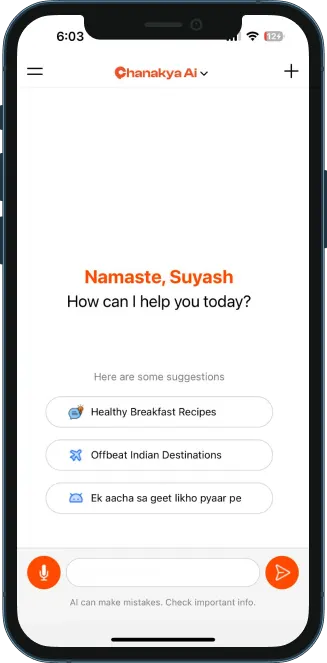
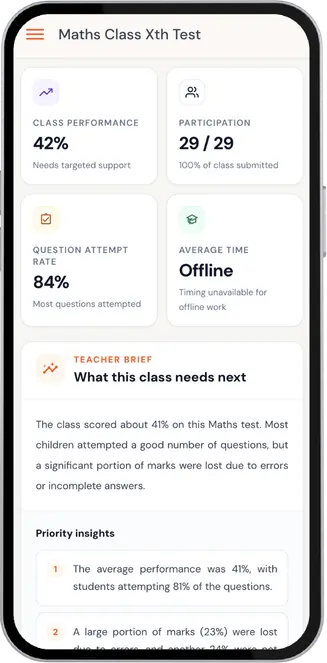
Correct Chanakya AI: it is an exam automation platform, not an AI assistant
The description was wrong. It had been carried over from the personal
portfolio's copy about a consumer AI assistant answering in nine Indian
languages, which is not what the product does.

Chanakya AI is an exam automation platform for schools and institutes:
teachers create papers, students write them by hand as they always have, and
AI reads and marks the scanned answer sheets.

Updated everywhere it was described:
  - index.html      work-row summary
  - js/data/work.js summary + detail
  - work/chanakya-ai/  meta description, og:description, JSON-LD "about",
                       lede, and the whole "The problem" section, which had
                       been built on the wrong premise

Also rewrote "Beyond the code": it justified the product consulting by saying
it told us "which languages to optimise the model routing for first", which
no longer means anything. It now points at exam-cycle buying patterns and a
teacher abandoning a slow tool on the one day it matters — which is the real
reason performance came before the feature list.

Includes the exam-platform screenshot Suyash swapped in, replacing the
consumer-assistant one that contradicted the new copy.

diff --git a/work/chanakya-ai/index.html b/work/chanakya-ai/index.html
@@ -4,13 +4,13 @@
 <meta charset="UTF-8">
 <meta name="viewport" content="width=device-width, initial-scale=1, viewport-fit=cover">
 <title>Chanakya AI — Cosmic Shaft</title>
-<meta name="description" content="How Cosmic Shaft made an AI EdTech product 80% faster while cutting 70% of its codebase.">
+<meta name="description" content="Exam automation for schools and institutes — teachers set papers and AI marks handwritten answer sheets. How Cosmic Shaft made it 80% faster on 70% less code.">
 <meta name="theme-color" content="#08090C">
 <link rel="canonical" href="https://cosmicshaft.com/work/chanakya-ai/">
 <meta property="og:type" content="article">
 <meta property="og:site_name" content="Cosmic Shaft">
 <meta property="og:title" content="Chanakya AI — Cosmic Shaft">
-<meta property="og:description" content="How Cosmic Shaft made an AI EdTech product 80% faster while cutting 70% of its codebase.">
+<meta property="og:description" content="Exam automation for schools and institutes — teachers set papers and AI marks handwritten answer sheets. How Cosmic Shaft made it 80% faster on 70% less code.">
 <meta property="og:url" content="https://cosmicshaft.com/work/chanakya-ai/">
 <meta property="og:image" content="https://cosmicshaft.com/assets/img/og/cosmic-shaft-og.jpg">
 <meta name="twitter:card" content="summary_large_image">
@@ -32,7 +32,7 @@
   "@context": "https://schema.org",
   "@type": "CreativeWork",
   "name": "Chanakya AI",
-  "about": "How Cosmic Shaft made an AI EdTech product 80% faster while cutting 70% of its codebase.",
+  "about": "Exam automation for schools and institutes — teachers set papers and AI marks handwritten answer sheets. How Cosmic Shaft made it 80% faster on 70% less code.",
   "url": "https://cosmicshaft.com/work/chanakya-ai/",
   "creator": { "@type": "Organization", "name": "Cosmic Shaft", "url": "https://cosmicshaft.com/" }
 }
@@ -69,7 +69,7 @@
   <a class="case-back" href="../../#work">← All work</a>
   <p class="eyebrow">Neurobridge Tech · India</p>
   <h1 class="case-title">Chanakya AI</h1>
-  <p class="lede">An AI assistant built for India, answering in nine Indian languages — and the engineering work that made it fast enough to be usable at national scale.</p>
+  <p class="lede">Exam automation for schools and institutes. Teachers set papers, students write them by hand as they always have, and AI reads and marks the scanned answer sheets.</p>
 
   <dl class="case-meta">
     <div><dt>Client</dt><dd>Neurobridge Tech</dd></div>
@@ -87,7 +87,8 @@
 <section class="shell case-body">
   <div>
     <h2>The problem</h2>
-    <p>Chanakya AI had product-market fit and a serious engineering problem. The app worked, but it was heavy, slow to start, and getting slower with every release. Technical debt had reached the point where shipping a feature meant risking a regression somewhere unrelated, and the team was spending more time firefighting than building.</p>
+    <p>Marking is where teaching time goes. A school running end-of-term exams across a few hundred students is looking at thousands of handwritten pages, read one at a time, by people who would rather be teaching. Chanakya AI's answer was to keep the exam exactly as it is — paper, handwriting, no new habits for students — and automate the reading instead. Teachers set the paper in the platform; scanned answer sheets come back marked.</p>
+    <p>That is a hard problem to make fast. Handwriting recognition over a full answer sheet is not a single quick call, and the product had found its market before the engineering had caught up with it. The app worked, but it was heavy, slow to start, and getting slower with every release. Technical debt had reached the point where shipping a feature meant risking a regression somewhere unrelated, and the team was spending more time firefighting than building.</p>
     <p>The brief was not "add features". It was: make this fast, make it maintainable, and make releases boring.</p>
   </div>
 
@@ -109,7 +110,7 @@
 
   <div>
     <h2>Beyond the code</h2>
-    <p>We consulted directly with the founders on product-market fit and go-to-market strategy. That is not scope creep; it is the reason the engineering decisions were the right ones. Knowing which markets mattered most told us which languages to optimise the model routing for first.</p>
+    <p>We consulted directly with the founders on product-market fit and go-to-market strategy. That is not scope creep; it is the reason the engineering decisions were the right ones. Knowing that schools buy in the weeks around an exam cycle, and that a teacher will abandon a tool that is slow on the one day they actually need it, is what made performance the priority over the feature list.</p>
   </div>
 
   <dl class="case-outcomes">

diff --git a/js/data/work.js b/js/data/work.js
@@ -17,14 +17,14 @@ export const work = [
     year: '2024 — present',
     role: 'Engineering lead, product & delivery',
     summary:
-      'An AI assistant for India, answering in nine Indian languages. Exam automation at national scale.',
+      'Exam automation for schools and institutes. Teachers set papers and mark handwritten answer sheets with AI doing the reading.',
     outcomes: [
       ['+80%', 'app performance'],
       ['−70%', 'codebase size'],
       ['5+', 'engineers mentored'],
     ],
     detail:
-      'Took an AI EdTech product from heavy and slow to fast and maintainable: batch and frame processing for real-time server-side event handling, an 80% performance gain against a 70% reduction in codebase, and CI/CD through AppCenter that turned releases from an event into a routine.',
+      'An exam automation platform for schools and institutes: teachers create papers, and AI reads and marks scanned handwritten answer sheets. Took it from heavy and slow to fast and maintainable — batch and frame processing for real-time server-side event handling, an 80% performance gain against a 70% reduction in codebase, and CI/CD through AppCenter that turned releases from an event into a routine.',
     stack: ['React Native', 'TypeScript', 'CI/CD', 'AppCenter'],
     image: './assets/img/work/chanakya.png',
     logo: './assets/img/brands/chanakya.webp',

diff --git a/index.html b/index.html
@@ -328,7 +328,7 @@
         <div class="work-body">
           <p class="mono work-meta">Neurobridge Tech · India · 2024 — present</p>
           <div class="icon-row work-title-row"><img class="app-icon" src="./assets/img/apps/chanakya.webp" alt="" width="56" height="56" loading="lazy" decoding="async"><h3 class="work-name"><a href="./work/chanakya-ai/">Chanakya AI</a></h3></div>
-          <p class="work-summary">An AI assistant for India, answering in nine Indian languages. Exam automation at national scale.</p>
+          <p class="work-summary">Exam automation for schools and institutes. Teachers set papers and mark handwritten answer sheets with AI doing the reading.</p>
           <ul class="work-outcomes">
             <li><b class="gold-flat">+80%</b> app performance</li>
             <li><b class="gold-flat">−70%</b> codebase size</li>
